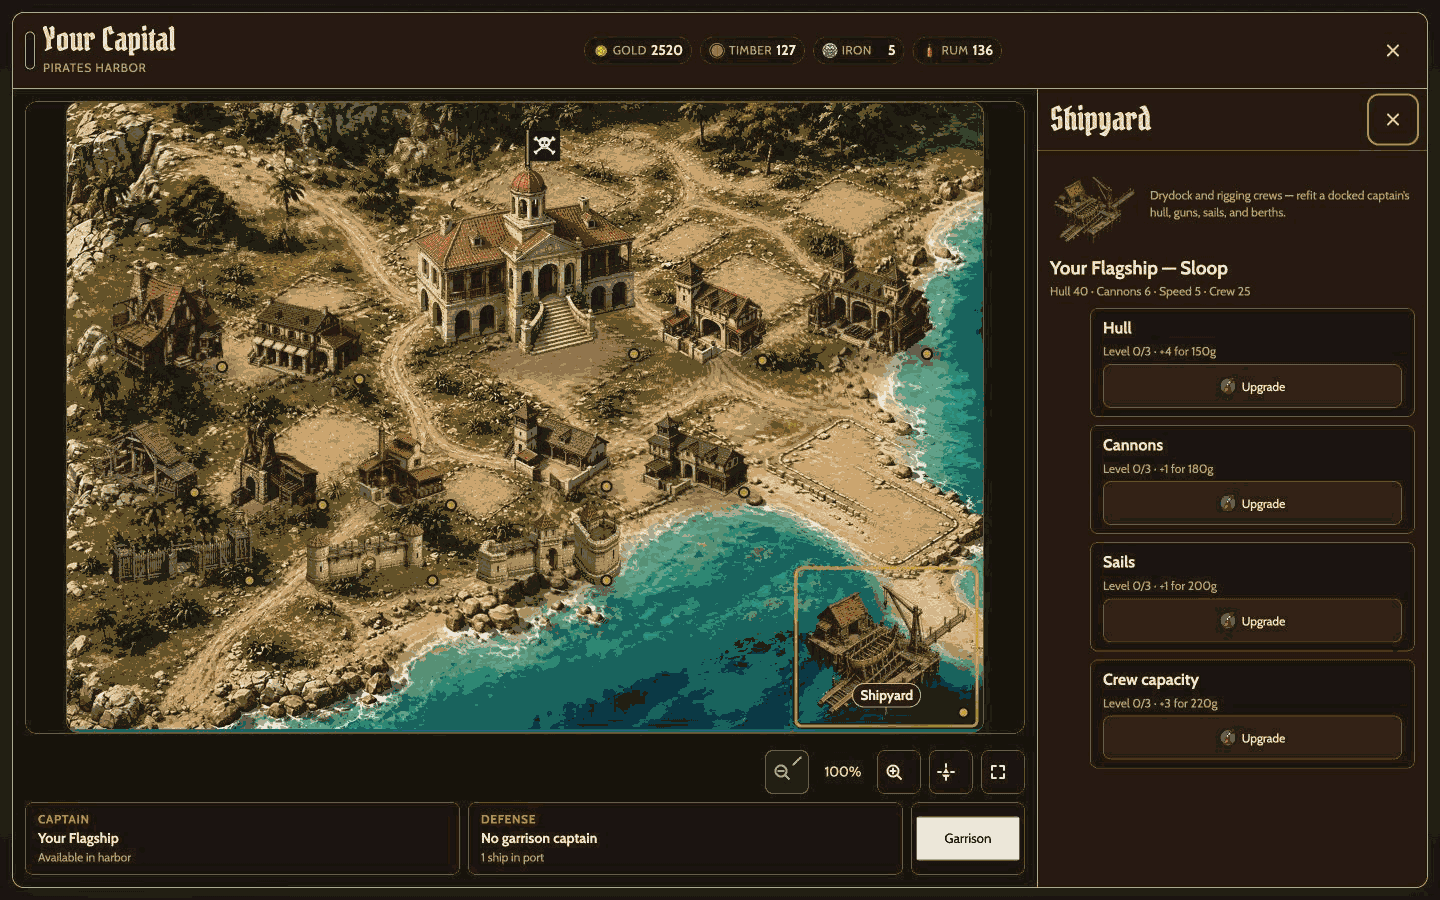
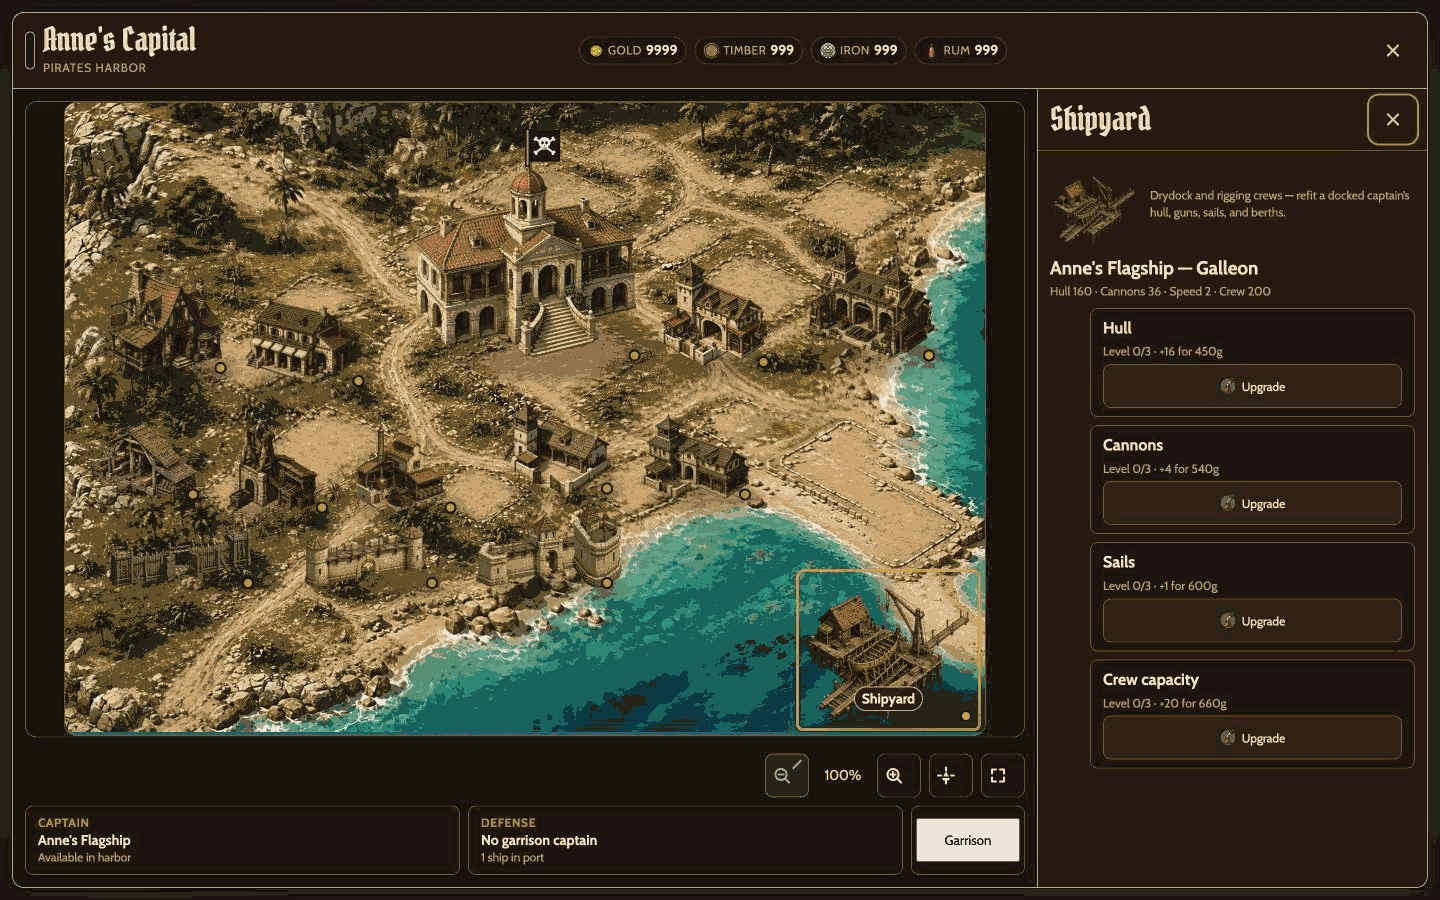
docs: promote approved chrome capture bytes

diff --git a/docs/art/gameplay-chrome-v2/RUNTIME-VERIFICATION.md b/docs/art/gameplay-chrome-v2/RUNTIME-VERIFICATION.md
@@ -1,6 +1,6 @@
 # Gameplay chrome v2 — runtime verification
 
-This report binds the #610 runtime implementation to the approved Direction B checkpoint and the refreshed exact-source runtime evidence after the #612 city-shell change. The operator approved all three refreshed exact-source runtime frames committed at `dc11b60738f4f14b896532bf2db323b2bd054f5c`; the approval is recorded in [issue #610](https://github.com/jharvieux/AoP/issues/610#issuecomment-5551752271). The files were captured on 2026-09-04 against runtime/source head `45a206f760eacce50dc8dd1dc656c5d4e789cb3c`.
+This report binds the #610 runtime implementation to the approved Direction B checkpoint and the refreshed exact-source runtime evidence after the #612 city shell, #613 map UX, and #623 single-player fog-privacy changes. The operator approved all three current exact-source runtime frames in the active session on 2026-09-05 after reviewing evidence head `08717289778883d7adca6ff7a6f15b20fb7c6b25`. The files were captured from runtime/source ancestor `c1824f22bf14dca6d38f7519fd99affd789a8130`; their permanent issue-comment record and separate immutable material-anchor renewal remain pending.
 
 ## Implemented contract
 
@@ -70,22 +70,22 @@ The #610 chrome change itself added no static asset. Existing `apps/web/public/a
 - Web focused chrome tests: 6 files, 33 tests passed.
 - Shared tests: 5 files, 57 tests passed.
 - Engine tests: 37 files, 765 tests passed.
-- Web tests: 103 files, 942 tests passed.
+- Web tests: 108 files, 1,007 tests passed.
 - All package and web TypeScript projects passed.
 - Web production build passed and emitted the budget values above.
 - `node compose.mjs` validates deterministic proof regeneration and semantic source/proof parity. The normal binding builder and validator intentionally remain fail-closed until the refreshed capture approval renews the immutable material anchor.
 
-The isolated writer's first literal wrapper attempt could not replace read-only dependency links and exited with `ERR_PNPM_ABORTED_REMOVE_MODULES_DIR_NO_TTY`; the equivalent repository-owned commands passed there. Independent exact-source verification later ran the literal `CI=true pnpm verify` gate successfully. The refreshed #610/#611/#612 exact-source gate passes Prettier, all five TypeScript projects, 103 web files / 942 tests, 37 engine files / 765 tests, 5 shared files / 57 tests, and the production build.
+The isolated writer's first literal wrapper attempt could not replace read-only dependency links and exited with `ERR_PNPM_ABORTED_REMOVE_MODULES_DIR_NO_TTY`; the equivalent repository-owned commands passed there. Independent exact-source verification later ran the literal `CI=true pnpm verify` gate successfully. The final exact-source gate passes Prettier, all five TypeScript projects, 108 web files / 1,007 tests, 37 engine files / 765 tests, 5 shared files / 57 tests, and the production build.
 
 ## Exact-source capture binding
 
-`RUNTIME-CAPTURE-BINDINGS.json` is a conservative schema-v3 boundary containing **215 shipping source files**: 149 non-test files recursively discovered under `apps/web/src`, all 29 engine source files, all 19 shared source files and all 18 content source files. It separately binds **22 web/package build inputs**, including the HTML entry, PWA worker/manifest/icons, workspace/dependency resolution, package exports, TypeScript/Vite configuration and Vite helpers. Exact sorted inventories make an added, removed or renamed shipping file fail, while exact byte counts and SHA-256 values catch content changes in the active shell, theme resolver, helpers, Canvas components and package leaves.
+The approved candidate projects to a conservative schema-v3 boundary containing **218 shipping source files**: 152 non-test files recursively discovered under `apps/web/src`, all 29 engine source files, all 19 shared source files and all 18 content source files. It separately binds **22 web/package build inputs**, including the HTML entry, PWA worker/manifest/icons, workspace/dependency resolution, package exports, TypeScript/Vite configuration and Vite helpers. Exact sorted inventories make an added, removed or renamed shipping file fail, while exact byte counts and SHA-256 values catch content changes in the active shell, theme resolver, helpers, Canvas components and package leaves. The retained binding intentionally remains on the prior approved anchor until the permanent issue record and separate manual anchor patch land.
 
 The boundary also binds the full `apps/web/src/styles.css` bytes as acceptance evidence, not merely a hand-selected selector projection. That deliberately conservative choice catches broad selectors, cascade/order changes, keyframes, tokens and future rules even when a selector does not name a gameplay component. The older per-frame selector/token projections remain diagnostic only. An explicit Canvas audit records 34 calls and 28 unique MapCanvas/Minimap tokens; it identifies the 26 values that schema v2 failed to include in its acceptance projection and checks their CSS, typed fallback and call-site fallback parity.
 
 The two runtime-art receipts and all **96** referenced public assets are exact-bound; per-frame asset inventories remain 54 for phone world and 52 for each city frame. Fonts, resource/action art, world tiles, faction flags and every receipt-selected world/city output are covered. The refreshed candidate records the frozen default/no-override theme and mounted `GameScreen` state for each frame: closed city with no selected unit, course, or event feed and a settled home-island fleet cluster; full city with a selected Shipyard in the dedicated right inspector and flagship upgrade rows; and full city with a selected Town Hall in the dedicated right inspector plus focus, hover, collapsed-info, and disabled states.
 
-`RUNTIME-MATERIAL-BASELINE.json` closes the generator trust gap: it is a non-generated anchor containing the `dc11b60` evidence head, a SHA-256 identity for the external capture record and the immutable SHA-256/byte count/census of the complete schema-v3 material projection. The normal builder recomputes and compares that projection before writing `RUNTIME-CAPTURE-BINDINGS.json`; it cannot update the anchor. Consequently, changing a shipping source or inventory and then running the builder stops with material-baseline drift instead of silently carrying the approved capture identity onto new runtime bytes.
+`RUNTIME-MATERIAL-BASELINE.json` closes the generator trust gap: it is a non-generated anchor containing an exact evidence head, a SHA-256 identity for the external capture record and the immutable SHA-256/byte count/census of the complete schema-v3 material projection. The normal builder recomputes and compares that projection before writing `RUNTIME-CAPTURE-BINDINGS.json`; it cannot update the anchor. The current preliminary promotion deliberately leaves the prior anchor in place, so the builder stops with material-baseline drift until a permanent issue-comment record exists and the distinct manual anchor patch binds this exact promotion commit.
 
 The distinct `renew-runtime-capture-baseline.mjs` operation is proposal-only and structurally unable to update either evidence file. It requires a completely clean tracked and untracked worktree, then proves the requested local HEAD equals its same-named upstream, hosted branch and hosted PR head. It computes material and capture facts from the worktree, verifies every recorded file byte against `git show HEAD:path`, and checks the repository state again around the external lookup. It accepts only a resolvable canonical `github.com/jharvieux/AoP/issues/610#issuecomment-N` whose GitHub API `html_url`, issue identity and numeric ID match and whose author association is `OWNER`. The opaque comment body is not machine-interpreted as permission: the utility prints its URL, author and SHA-256 beside the exact head/material/capture facts for manual review.
 
@@ -93,17 +93,17 @@ The utility imports only `readFileSync` from the filesystem API, records before/
 
 `validate.mjs` requires exact anchor, schema, tree-policy, source, build-input, stylesheet, receipt, asset, frozen-state, capture and diagnostic inventory equality before recomputing all bytes and hashes. Its failing-direction controls require builder rejection—not merely a different generated manifest—for stale source/capture data, every one of the three broad CSS hiding mutations, the hidden App wrapper and GameScreen root, theme URL resolution, engine ship hull, engine visibility, shared `canAfford`, new source/import inventory, build input, receipt, public asset, capture state, capture bytes and each of the 26 formerly escaping Canvas tokens. Proposal falsifiers reject dirty tracked and untracked state, head divergence, fake/off-repository/wrong-issue/unresolvable records, non-owner association, a reused head or record, and omitted confirmation. Before/after artifact hashes plus a writer-symbol census prove proposal evaluation cannot mutate or re-bless the anchor or binding. There is intentionally no “unrelated CSS” exception in schema v3.
 
-## Operator-approved refreshed runtime capture evidence
+## Session-approved runtime capture evidence — durable record pending
 
-The supervisor rebuilt the production preview after the source freeze, waited for the runtime to settle, and native-inspected every frame for font fallback or incomplete or missing imagery before approval. No programmatic font/image await is claimed. These are the approved real runtime frames:
+The supervisor rebuilt the production preview after the source freeze, waited for the runtime to settle, and native-inspected every frame for font fallback or incomplete or missing imagery before approval. No programmatic font/image await is claimed. These are the exact real runtime frames approved in the active session and promoted byte-for-byte here:
 
 | File                                                                                                  | Dimensions | PNG color type |   Bytes | SHA-256                                                            |
 | ----------------------------------------------------------------------------------------------------- | ---------: | -------------: | ------: | ------------------------------------------------------------------ |
[6 lines of base64/hex data omitted]
 
-The in-app Browser returned JPEG/JFIF payloads despite `.png` names. They were decoded with Pillow 12.3.0 and saved twice byte-identically as real PNGs at unchanged dimensions: the phone frame as truecolor RGB, and the two large city frames as 40-color FASTOCTREE indexed PNGs without dithering so they remain below the evidence budget. The phone's decoded RGB is exact; the indexed frames have measured RGB RMSE 9.3949 and 9.7165. The #612 RGB/JFIF capture set remains the city-art fidelity evidence. These three PNGs total **612,613 bytes**; the largest is 283,680 bytes, so every review capture remains below 300 KiB and no byte belongs to the shipping runtime bundle.
+The in-app Browser returned JPEG/JFIF payloads, which were decoded and saved twice byte-identically as real PNGs at unchanged dimensions: the phone frame as truecolor RGB, and the two large city frames as indexed PNGs without dithering so they remain below the evidence budget. The phone's decoded RGB is exact; the indexed frames have measured RGB RMSE 9.262423 and 9.759014. The #612 RGB/JFIF capture set remains the city-art fidelity evidence. These three PNGs total **678,768 bytes**; the largest is 293,704 bytes, so every review capture remains below 300 KiB and no byte belongs to the shipping runtime bundle.
 
 ### Measured composition and states
 
@@ -111,4 +111,4 @@ The in-app Browser returned JPEG/JFIF payloads despite `.png` names. They were d
 - **City inspector:** the viewport is 1440 × 900. The city art occupies the dominant left column while a dedicated right-side Shipyard inspector shows the docked flagship and its Hull, Cannons, Sails, and Crew capacity upgrades. The close and upgrade targets are at least 44 × 44.
 - **Interaction evidence:** the viewport is 1440 × 960. A dedicated right-side Town Hall inspector preserves the selected Town Hall context while its close control is keyboard-focused, an info control is hovered but remains collapsed, and Build controls are disabled with their non-color slash. The close, info, and Build targets are all at least 44 × 44. Pressed is inherently transient and is verified by the runtime `:active` rules/tests plus the approved static state sheet; it is not falsely claimed as frozen in this frame.
 
-Native-size inspection found no font fallback, missing image, clipped label, control below 44 × 44, or unintended opaque panel over a selectable map entity. The approval carries across docs/evidence-only commits only while the complete schema-v3 source-tree inventory, build inputs, full stylesheet, runtime receipts/assets, frozen capture states, and capture bytes remain exact; any material bound-byte or inventory change requires renewed capture approval.
+Native-size inspection found no font fallback, missing image, clipped label, control below 44 × 44, or unintended opaque panel over a selectable map entity. The permanent issue #610 record is still pending; until it exists and the separate manual material-anchor patch lands, the normal builder and validator intentionally fail closed rather than treating the in-session approval as a durable record.

diff --git a/docs/art/gameplay-chrome-v2/README.md b/docs/art/gameplay-chrome-v2/README.md
@@ -1,6 +1,6 @@
 # Gameplay chrome v2 — approved contract
 
-This directory contains the approved visual contract and deterministic review package for [issue #610](https://github.com/jharvieux/AoP/issues/610). The operator approved **Direction B — Gilded Harbor Diorama with the recommended city refinement** before runtime implementation began, then approved all three refreshed exact-source runtime frames captured on 2026-09-04 against runtime/source head `45a206f760eacce50dc8dd1dc656c5d4e789cb3c` and committed at evidence head `dc11b60738f4f14b896532bf2db323b2bd054f5c`. The mockups remain non-runtime evidence; the implemented CSS, components, vector primitives, and verification are recorded in [RUNTIME-VERIFICATION.md](RUNTIME-VERIFICATION.md).
+This directory contains the approved visual contract and deterministic review package for [issue #610](https://github.com/jharvieux/AoP/issues/610). The operator approved **Direction B — Gilded Harbor Diorama with the recommended city refinement** before runtime implementation began and approved the three current exact-source runtime frames in the active session on 2026-09-05. The frames were captured from runtime/source ancestor `c1824f22bf14dca6d38f7519fd99affd789a8130` and reviewed at evidence head `08717289778883d7adca6ff7a6f15b20fb7c6b25`; their byte-exact promotion is committed here while the permanent issue-comment record and immutable material-anchor renewal remain pending. The mockups remain non-runtime evidence; the implemented CSS, components, vector primitives, and verification are recorded in [RUNTIME-VERIFICATION.md](RUNTIME-VERIFICATION.md).
 
 ## Review at native size
 
@@ -94,7 +94,7 @@ City uses the same HUD/dock type and panel grammar as map. Its selected-building
 
 - `compose.mjs` embeds the approved Direction B source backdrop hashes by local path and writes deterministic self-contained SVG mockups.
 - `RUNTIME-INVENTORY.md` records the exact pre-implementation token, glyph, geometry, and local/multiplayer drift census.
-- `RUNTIME-MATERIAL-BASELINE.json` is the non-generated material anchor for the recorded `dc11b60` evidence head. It holds the immutable schema-v3 material-projection digest and the capture-record identity hash, so the normal builder can validate this baseline but cannot refresh it.
+- `RUNTIME-MATERIAL-BASELINE.json` remains the non-generated material anchor for the prior approved evidence until a permanent issue-comment URL records the 2026-09-05 approval. It holds the immutable schema-v3 material-projection digest and the capture-record identity hash, so the normal builder can validate an approved baseline but cannot refresh it.
 - `RUNTIME-CAPTURE-BINDINGS.json` is the conservative schema-v3 evidence boundary. It binds the exact inventory and bytes of every non-test file under `apps/web/src`, every file under the engine/shared/content source trees, the web build entry/config inputs, the complete stylesheet, the two runtime-art receipts and their 96 referenced runtime assets, all three captures, and the explicit default-theme/mounted-screen/city/building/selection state frozen in each frame.
 - `build-runtime-capture-bindings.mjs` regenerates that boundary from the repository trees only after the material projection matches the fixed anchor. Any added, removed, renamed, or changed bound file stops the builder before it can rewrite the binding. The older selector projections remain diagnostics only; the full `styles.css` hash is acceptance evidence so broad selectors, cascade changes, keyframes, and previously unreferenced Canvas tokens cannot escape.
 - `renew-runtime-capture-baseline.mjs` is proposal-only. It requires a completely clean tracked and untracked worktree; equality across local HEAD, its same-named upstream, the hosted branch and the hosted PR head; and exact `git show HEAD:path` parity for every material file. It resolves only a canonical live issue #610 comment whose API URL/issue identity match and whose author association is `OWNER`, but treats the opaque comment body only as evidence for human review. It prints the comment URL, author, body hash, source/material/capture hashes and unchanged before/after anchor/binding hashes. It has no file-writing capability and cannot renew or re-bless evidence.
@@ -105,7 +105,7 @@ City uses the same HUD/dock type and panel grammar as map. Its selected-building
 
[1 lines of base64/hex data omitted]
 
-Run `node compose.mjs`, `node build-runtime-capture-bindings.mjs` twice, and `node validate.mjs` to recreate and verify the proof and approval-bound runtime evidence. Run repository formatting if the generated JSON layout changes.
+Before the permanent approval record and separate manual anchor patch land, run `node compose.mjs` and expect the normal binding builder/validator to reject the stale material baseline. After that renewal, run `node build-runtime-capture-bindings.mjs` twice and `node validate.mjs`; then run repository formatting if the generated JSON layout changes.
 
 ## Approval record
 
@@ -113,4 +113,4 @@ Approved for implementation: parchment readability, `#c8962c` action/focus, `#c9
 
 The operative evidence boundary for the runtime record below is the immutable material-baseline anchor plus the complete schema-v3 source-tree inventory, build inputs, full stylesheet, runtime receipts/assets, frozen capture states, and capture bytes; the older scoped CSS projections are diagnostic only.
 
-The operator approved all three refreshed exact-source runtime frames committed at `dc11b60738f4f14b896532bf2db323b2bd054f5c`; the approval is recorded in [issue #610](https://github.com/jharvieux/AoP/issues/610#issuecomment-5551752271). The files were captured on 2026-09-04 against runtime/source head `45a206f760eacce50dc8dd1dc656c5d4e789cb3c`. That approval carries across docs/evidence-only commits only while `RUNTIME-CAPTURE-BINDINGS.json` proves the complete schema-v3 source-tree inventory, build inputs, full stylesheet, runtime receipts/assets, frozen capture states, and capture bytes remain exact; any material bound-byte or inventory change requires renewed capture approval.
[1 lines of base64/hex data omitted]
